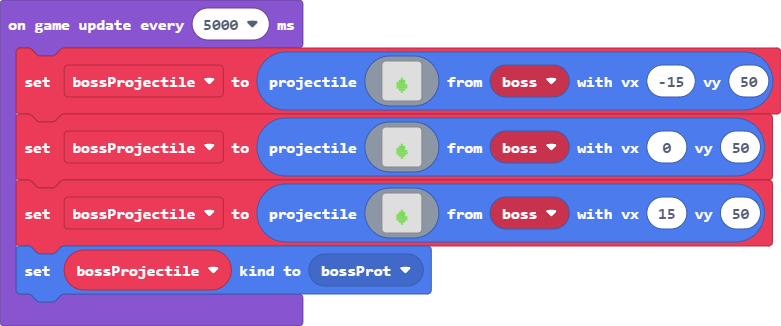
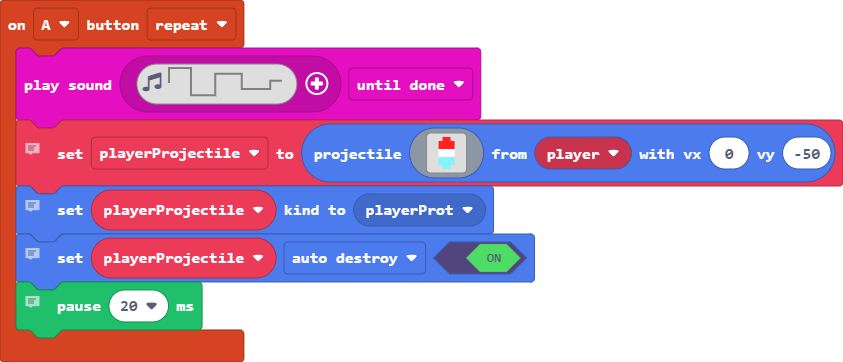
Update main.blocks, main.ts

diff --git a/main.ts b/main.ts
@@ -17,6 +17,17 @@ info.onLifeZero(function () {
     // game over when life hits 0
     game.over(false, effects.melt)
 })
+controller.A.onEvent(ControllerButtonEvent.Repeated, function () {
+    music.playSoundEffect(music.createSoundEffect(WaveShape.Square, 1600, 1, 255, 0, 300, SoundExpressionEffect.None, InterpolationCurve.Curve), SoundExpressionPlayMode.UntilDone)
+    // player firing
+    playerProjectile = sprites.createProjectileFromSprite(assets.image`Laser`, player, 0, -50)
+    // protjectile different so you dont die when you fire
+    playerProjectile.setKind(SpriteKind.playerProt)
+    // should destroy the player protjectile after passing top
+    playerProjectile.setFlag(SpriteFlag.AutoDestroy, true)
+    // not spammy projectiles
+    pause(20)
+})
 sprites.onOverlap(SpriteKind.playerProt, SpriteKind.Enemy, function (sprite, otherSprite) {
     info.changeScoreBy(1)
     sprite.destroy(effects.disintegrate, 150)
